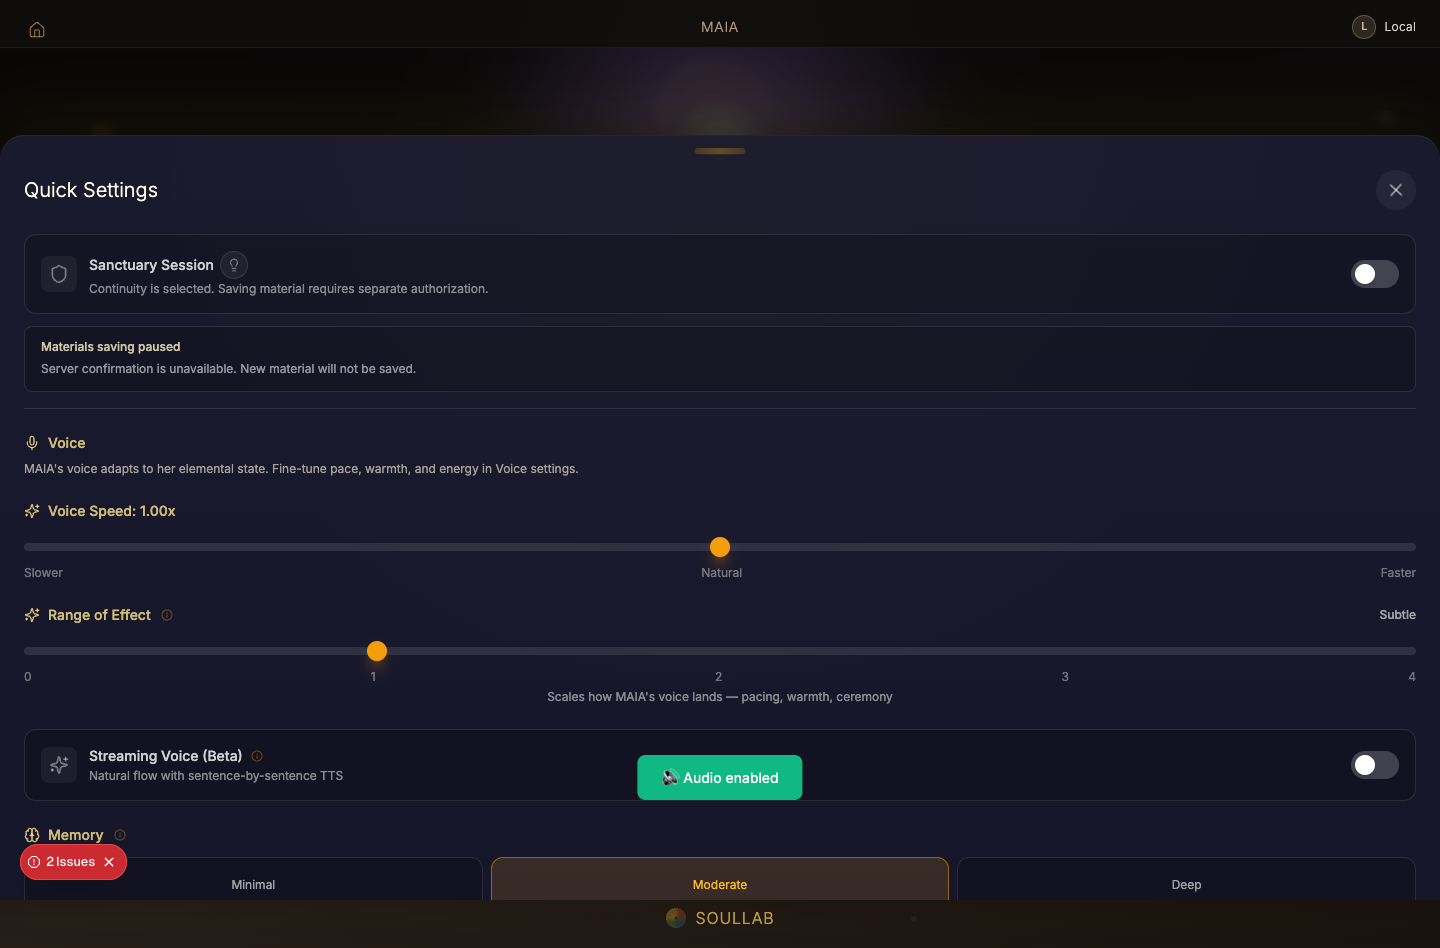
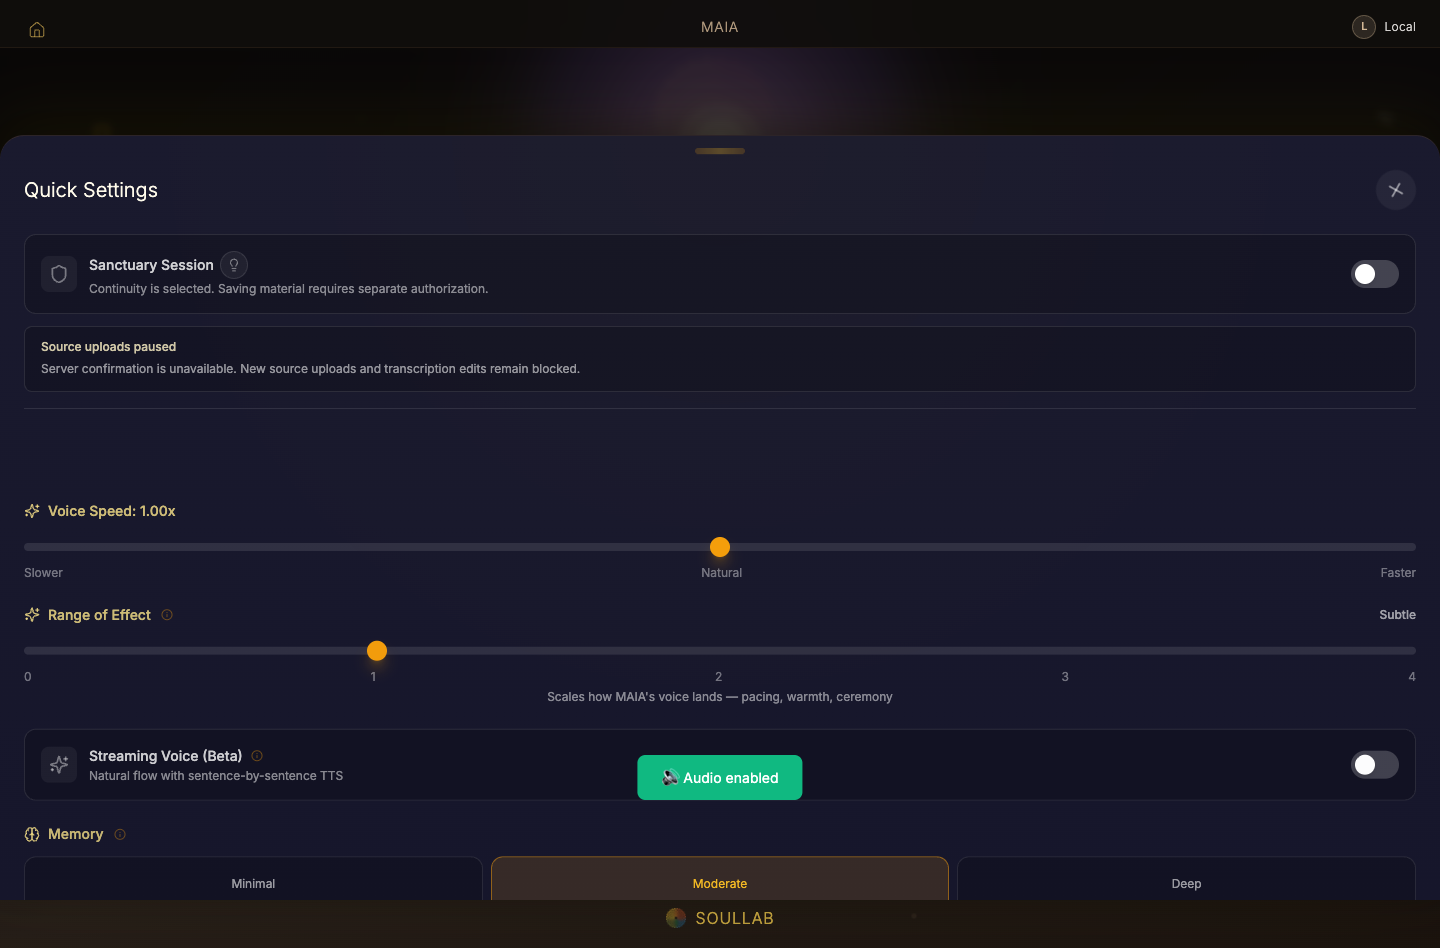
fix(sanctuary): scope member privacy status to source writes

diff --git a/lib/sanctuary/sourcePostureNotice.ts b/lib/sanctuary/sourcePostureNotice.ts
@@ -5,10 +5,10 @@
 import type { SourcePostureDisplay } from './sourcePostureDisplay';
 export type SourcePostureNotice = Readonly<{ heading: string; detail: string }>;
 export function sourcePostureNotice(state: SourcePostureDisplay): SourcePostureNotice {
-  const heading = 'Materials saving paused';
+  const heading = 'Source uploads paused';
   switch (state) {
-    case 'sanctuary': return { heading, detail: 'The server confirms Sanctuary for this session’s source protection.' };
-    case 'ordinary-unverified': return { heading, detail: 'Ordinary mode is recorded, but that does not authorize saving material.' };
-    default: return { heading, detail: 'Server confirmation is unavailable. New material will not be saved.' };
+    case 'sanctuary': return { heading, detail: 'The server confirms Sanctuary for this session. New source uploads and transcription edits remain blocked.' };
+    case 'ordinary-unverified': return { heading, detail: 'Ordinary mode is recorded, but that does not authorize uploading or editing sources.' };
+    default: return { heading, detail: 'Server confirmation is unavailable. New source uploads and transcription edits remain blocked.' };
   }
 }

diff --git a/lib/sanctuary/__tests__/sourcePostureNotice.test.ts b/lib/sanctuary/__tests__/sourcePostureNotice.test.ts
@@ -1,7 +1,7 @@
 import { sourcePostureNotice } from '../sourcePostureNotice';
 test.each(['sanctuary','ordinary-unverified','unavailable'] as const)('%s never advertises saving permission',state=>{
   const notice=sourcePostureNotice(state);
-  expect(notice.heading).toBe('Materials saving paused');
+  expect(notice.heading).toBe('Source uploads paused');
   expect(notice.detail).not.toMatch(/you can save|saving enabled/i);
 });
 test('ordinary server posture cannot be confused with upload authorization',()=>{

diff --git a/docs/programme/evidence/WS-SANCTUARY-BETA-LOCAL-20261008/README.md b/docs/programme/evidence/WS-SANCTUARY-BETA-LOCAL-20261008/README.md
@@ -66,7 +66,7 @@ QuickSettingsSheet for actual member settings.
   panel at 1440×900 and 390×844, server status unavailable.
 - `quick-settings-desktop-selected.png` and
   `quick-settings-mobile-selected.png`: the **actual Sanctuary toggle selected**
-  with an independently visible `Materials saving paused` notice. The Next.js
+  with an independently visible `Source uploads paused` notice. The Next.js
   development warning badge and Soullab footer remain in the visual record.
 
 The existing `openLabDrawer` browser event was used to expose the Lab Tools
@@ -74,7 +74,7 @@ shelf, then the new Quick Settings menu item was selected normally. This is a
 truthful actual-component visual test, **not proof of a physical user gesture
 reaching that shelf**. The source-posture API returned GET 503, POST Sanctuary
 503, GET 503 (migration not yet applied). The status remained `unavailable`
-and stated that new material would not be saved. Local exit back to ordinary
+and stated that new source uploads and reviewed-source edits remained blocked. Local exit back to ordinary
 made no POST authorizing storage. The active VoiceHUD remains unmounted.
 
 These images do not certify successful source saving, cognition privacy, or a

diff --git a/docs/design/contracts/maia-sanctuary-controls.md b/docs/design/contracts/maia-sanctuary-controls.md
@@ -58,8 +58,7 @@ existing `openLabDrawer` event in the local browser witness. A fully physical
 member navigation to that shelf has not yet been recorded. The VoiceHUD component
 is disabled in the active renderer and is not claimed as witnessed.
 
-The status currently says “Materials saving paused” because this branch's server
-write guards are deliberately hard-disabled; before any future reopening the
+The status currently says “Source uploads paused” because this branch's source POST and transcription PATCH guards are deliberately hard-disabled; before any future reopening the
 status must be governed alongside the new server authorization contract.
 
 No new memories, manuscript wording, source attachments, production data, or
